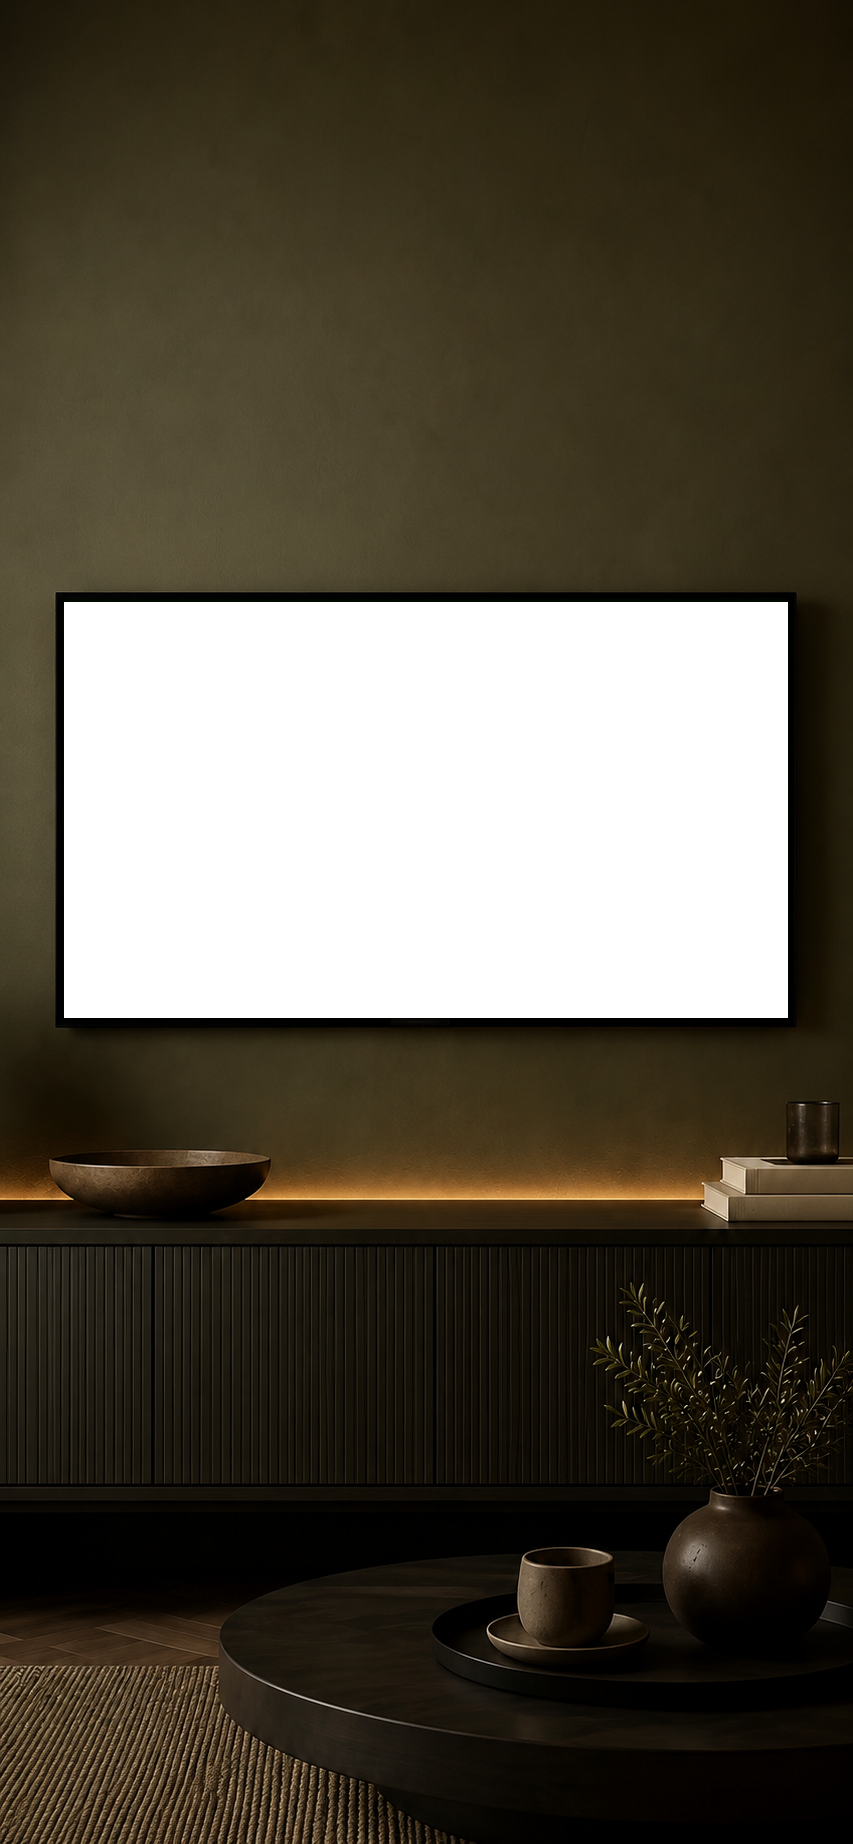
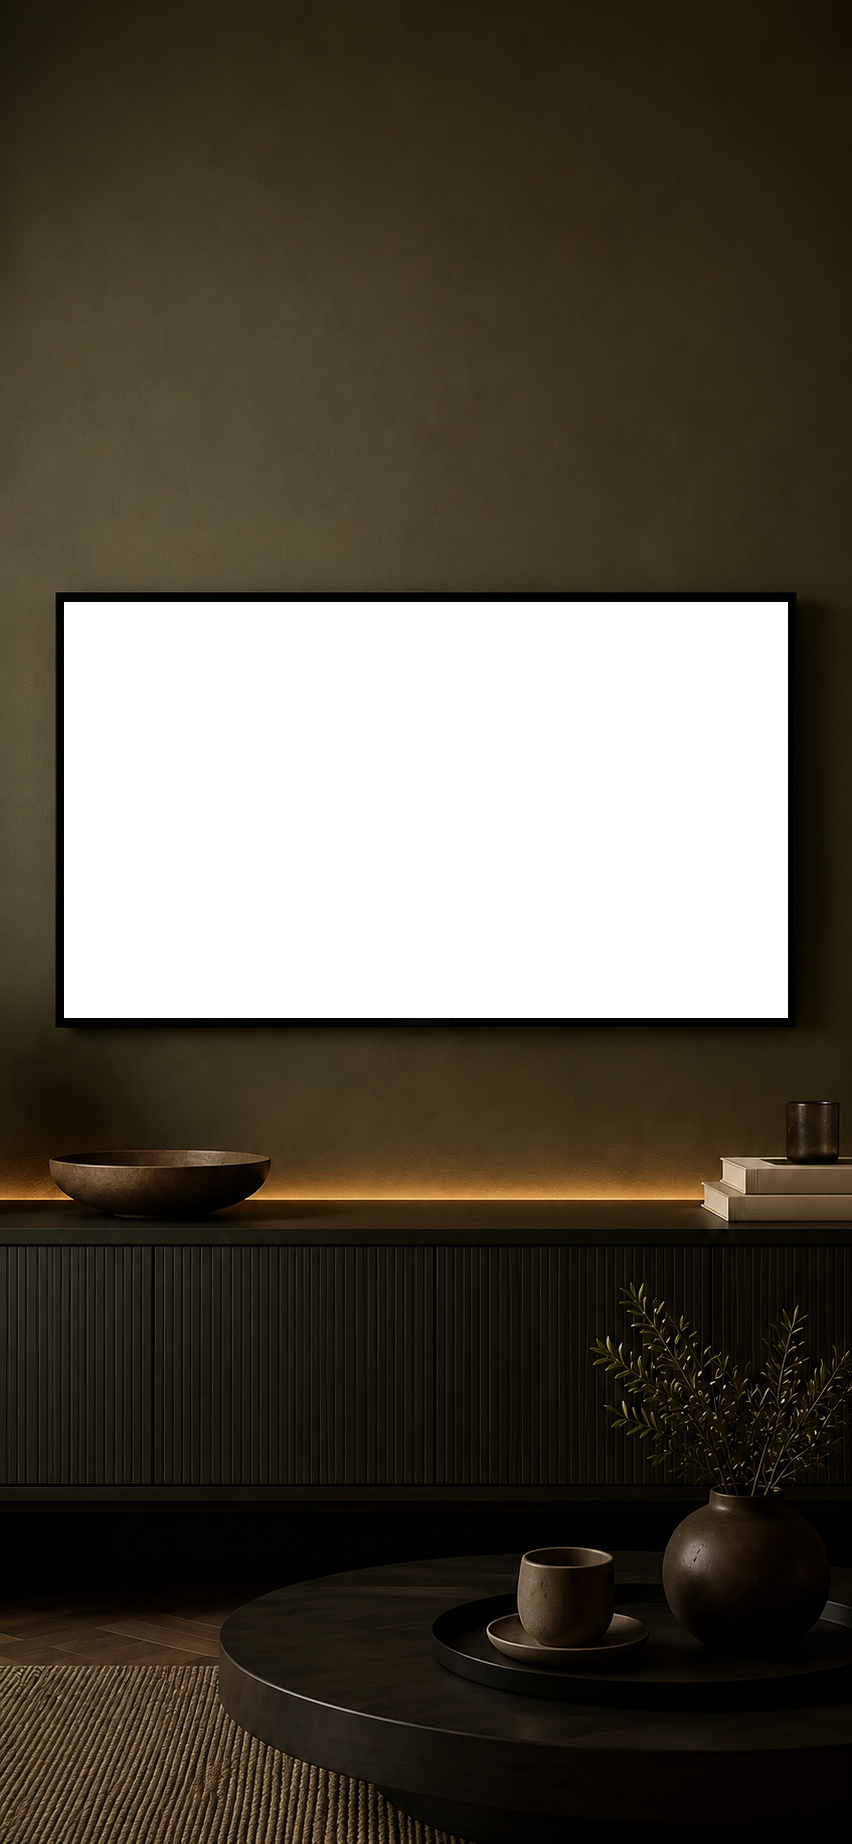
feat: add thumbnail URL support to job model and extraction functionality

diff --git a/tasks/pipeline.py b/tasks/pipeline.py
@@ -12,7 +12,7 @@ from services.downloader import download_video
 from services.transcriber import transcribe, load_transcript
 from services.diarizer import diarize
 from services.analyzer import analyze_transcript, find_more_clips
-from services.editor import render_and_caption_clip, probe_source_dims
+from services.editor import render_and_caption_clip, probe_source_dims, extract_thumbnail
 from services.credits import refund
 from services import r2
 from services.video_cache import required_quality, get_cache_hit, touch_cache, store_cache
@@ -457,6 +457,16 @@ def run_full_pipeline(self, job_id: str, options: dict):
         except Exception as exc:
             logger.warning("source dim probe failed for %s: %s", job_id, exc)
 
+        thumb_path = Path(storage) / "jobs" / job_id / "thumbnail.jpg"
+        try:
+            if extract_thumbnail(source_path, str(thumb_path)):
+                thumbnail_url = f"/storage/jobs/{job_id}/thumbnail.jpg"
+            else:
+                thumbnail_url = None
+        except Exception as exc:
+            logger.warning("thumbnail extraction failed for %s: %s", job_id, exc)
+            thumbnail_url = None
+
         job = db.query(Job).filter(Job.id == job_id).first()
         job.video_title = meta.get("title")
         if meta.get("duration"):
@@ -464,14 +474,20 @@ def run_full_pipeline(self, job_id: str, options: dict):
         if src_w and src_h:
             job.source_width = src_w
             job.source_height = src_h
+        if thumbnail_url:
+            job.thumbnail_url = thumbnail_url
         db.commit()
 
         # Stage 2: Transcribe
         _set_job_status(db, job_id, "transcribing", 0)
-        transcript = transcribe(
+        transcribe(
             job_id,
             progress_callback=lambda p: _set_job_status(db, job_id, "transcribing", p),
         )
+        # Reload from disk — transcribe() may return the raw (pre-romanization)
+        # result on a fresh transcription; load_transcript() applies Hinglish
+        # romanization and is the copy that must flow into caption rendering.
+        transcript = load_transcript(job_id)
         job = db.query(Job).filter(Job.id == job_id).first()
         job.detected_language = transcript.get("language")
         db.commit()

diff --git a/services/editor.py b/services/editor.py
@@ -48,6 +48,16 @@ def probe_source_dims(source_path: str) -> tuple[int, int]:
     return int(w), int(h)
 
 
+def extract_thumbnail(source_path: str, out_path: str, at_seconds: float = 1.0) -> bool:
+    """Grab a single frame as a JPEG thumbnail. Returns False on failure."""
+    result = subprocess.run(
+        [ffmpeg_path(), "-y", "-ss", str(at_seconds), "-i", source_path,
+         "-frames:v", "1", "-vf", "scale=480:-2", "-q:v", "4", out_path],
+        capture_output=True, text=True, timeout=30,
+    )
+    return result.returncode == 0 and Path(out_path).exists()
+
+
 # ── Filter chain builder ────────────────────────────────────────────────────
 
 def _build_video_filter(

diff --git a/scripts/build_hook_templates.py b/scripts/build_hook_templates.py
@@ -77,6 +77,12 @@ def build_one(src: Path, force: bool = False) -> None:
         return
 
     img = Image.open(src).convert("RGBA")
+    # libx264 requires even width/height. Real photos are whatever size the
+    # camera gave them — crop 1px off if needed so every downstream ffmpeg
+    # pass (scene compositing, hook overlay) always gets an even canvas.
+    even_w, even_h = img.width - (img.width % 2), img.height - (img.height % 2)
+    if (even_w, even_h) != (img.width, img.height):
+        img = img.crop((0, 0, even_w, even_h))
     arr = np.array(img)
     mask = green_mask(arr)
     corners, off_axis_deg = find_screen_quad(mask)

diff --git a/services/hook_overlay.py b/services/hook_overlay.py
@@ -748,7 +748,11 @@ def add_hook_to_video(
             "-c:v", "libx264", "-preset", "fast", "-crf", "22",
             output_path,
         ]
-        subprocess.run(cmd, check=True, capture_output=True, timeout=600)
+        try:
+            subprocess.run(cmd, check=True, capture_output=True, timeout=600)
+        except subprocess.CalledProcessError as exc:
+            stderr = (exc.stderr or b"").decode("utf-8", errors="ignore")[-2000:]
+            raise RuntimeError(f"ffmpeg overlay failed (exit {exc.returncode}): {stderr}") from exc
         return output_path
     finally:
         if os.path.exists(hook_png):

diff --git a/api/jobs.py b/api/jobs.py
@@ -364,6 +364,7 @@ def list_jobs(
             source_url=j.source_url, source_filename=j.source_filename, source_type=j.source_type,
             detected_language=j.detected_language, detected_topic=j.detected_topic,
             video_duration_seconds=j.video_duration_seconds, video_title=j.video_title,
+            thumbnail_url=j.thumbnail_url,
             error_message=j.error_message,
             clips=[serialize_clip(c) for c in clips],
             created_at=j.created_at, completed_at=j.completed_at,
@@ -397,6 +398,7 @@ def get_job(
         detected_topic=job.detected_topic,
         video_duration_seconds=job.video_duration_seconds,
         video_title=job.video_title,
+        thumbnail_url=job.thumbnail_url,
         error_message=job.error_message,
         clips=[serialize_clip(c) for c in clips],
         created_at=job.created_at,

diff --git a/database.py b/database.py
@@ -55,6 +55,7 @@ _PENDING_COLUMNS = [
     ("users", "subscription_tier_id", "INTEGER"),
     ("users", "referral_code", "VARCHAR"),
     ("users", "referred_by_user_id", "VARCHAR"),
+    ("jobs", "thumbnail_url", "VARCHAR"),
 ]
 
 

diff --git a/models.py b/models.py
@@ -115,6 +115,7 @@ class Job(Base):
     video_title = Column(String, nullable=True)
     source_width = Column(Integer, nullable=True)
     source_height = Column(Integer, nullable=True)
+    thumbnail_url = Column(String, nullable=True)
 
     created_at = Column(DateTime, default=datetime.utcnow)
     completed_at = Column(DateTime, nullable=True)

diff --git a/schemas.py b/schemas.py
@@ -55,6 +55,7 @@ class JobOut(BaseModel):
     detected_topic: Optional[str] = None
     video_duration_seconds: Optional[float] = None
     video_title: Optional[str] = None
+    thumbnail_url: Optional[str] = None
     error_message: Optional[str] = None
     clips: List[ClipOut] = []
     created_at: datetime